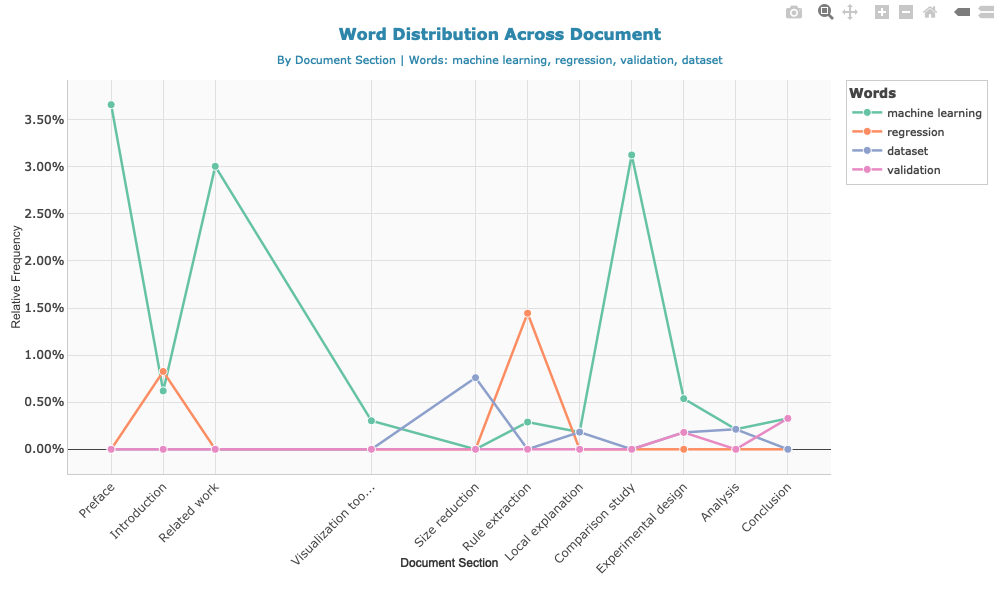
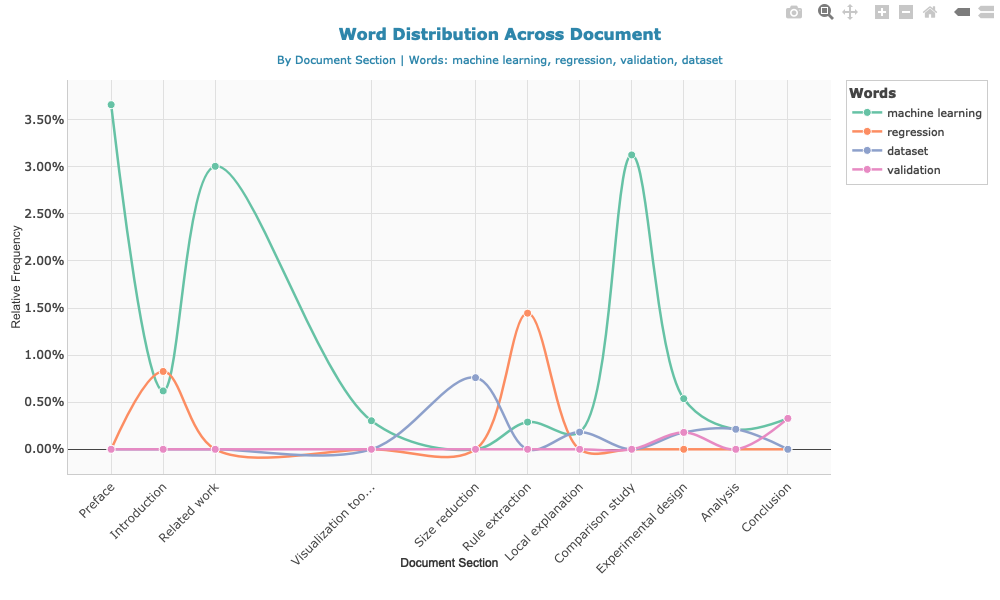
Minor fixes

diff --git a/README.md b/README.md
@@ -416,7 +416,7 @@ word_dist <- calculate_word_distribution(doc, method_terms)
 
 ``` r
 # Create and save the plot
-p <- plot_word_distribution(word_dist, plot_type = "line", show_points = TRUE)
+p <- plot_word_distribution(word_dist, plot_type = "line", smooth = TRUE, ,show_points = TRUE)
 
 # Save as static image for GitHub
 if (!dir.exists("man/figures")) dir.create("man/figures", recursive = TRUE)
